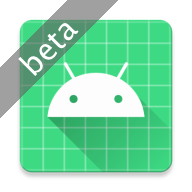
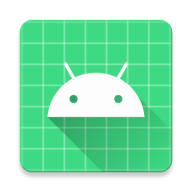
introduce AdaptiveIcon resource

Changed region(s): [[0.0, 0.0, 0.625, 0.625]]

diff --git a/ribbonizer-plugin/src/main/kotlin/com/shogo82148/ribbonizer/plugin/RibbonizerTask.kt b/ribbonizer-plugin/src/main/kotlin/com/shogo82148/ribbonizer/plugin/RibbonizerTask.kt
@@ -1,19 +1,14 @@
 package com.shogo82148.ribbonizer.plugin
 
 import com.android.build.gradle.AppExtension
-import com.android.builder.model.SourceProvider
 import com.android.build.gradle.api.ApplicationVariant
 import com.shogo82148.ribbonizer.FilterBuilder
-import com.shogo82148.ribbonizer.plugin.Resources.adaptiveIconResource
-import com.shogo82148.ribbonizer.resource.ImageAdaptiveIcon
+import com.shogo82148.ribbonizer.resource.AdaptiveIcon
 import com.shogo82148.ribbonizer.resource.ImageIcon
-import com.shogo82148.ribbonizer.resource.Resource
-import com.shogo82148.ribbonizer.resource.VectorAdaptiveIcon
 import org.gradle.api.DefaultTask
 import org.gradle.api.tasks.Internal
 import org.gradle.api.tasks.TaskAction
 import java.io.File
-import java.util.function.Consumer
 import java.util.stream.Stream
 
 open class RibbonizerTask : DefaultTask() {
@@ -26,78 +21,22 @@ open class RibbonizerTask : DefaultTask() {
         val names = HashSet(iconNames)
         names.addAll(launcherIconNames)
         info(names.toString())
+        val ribbonizer = Ribbonizer(name, project, variant, outputDir, filterBuilders)
         names.forEach { name: String ->
-            findResourceFiles(name).forEach {
-                info("process $it")
-                if (it.name.endsWith(".xml")) {
-                    // assume it is an adaptive icon
-                    processAdaptiveIcon(it)
-                } else {
-                    processIcon(it, ImageIcon(it))
+            ribbonizer.findResourceFiles(name).forEach {
+                when (it.extension) {
+                    "xml" -> {
+                        val icon = AdaptiveIcon(ribbonizer, it)
+                        ribbonizer.process(icon)
+                    }
+                    "png" -> {
+                        val icon = ImageIcon(ribbonizer, it)
+                        ribbonizer.process(icon)
+                    }
                 }
             }
         }
         info("task finished in " + (System.currentTimeMillis() - t0) + "ms")
-    }
-
-    private fun findResourceFiles(name: String): List<File> {
-        val files = ArrayList<File>()
-        variant.sourceSets.stream().flatMap { sourceProvider: SourceProvider ->
-            sourceProvider.resDirectories.stream()
-        }.forEach { resDir: File ->
-            if (resDir == outputDir) {
-                return@forEach
-            }
-            project.fileTree(object :
-                LinkedHashMap<String?, Any?>() {
-                init {
-                    put("dir", resDir)
-                    put("include", Resources.resourceFilePattern(name))
-                }
-            }).forEach(Consumer { inputFile: File ->
-                files.add(inputFile)
-            })
-        }
-        return files
-    }
-
-    private fun processAdaptiveIcon(inputFile: File) {
-        try {
-            val icon = adaptiveIconResource(inputFile)
-            if (icon.isEmpty()) {
-                return
-            }
-            findResourceFiles(icon).forEach {
-                if (it.name.endsWith(".xml")) {
-                    // assume it is a vector drawable
-                    processIcon(it, VectorAdaptiveIcon(it))
-                } else {
-                    processIcon(it, ImageAdaptiveIcon(it))
-                }
-            }
-        } catch (e: Exception) {
-            info("Exception: $e")
-        }
-    }
-
-    private fun <T: Resource> processIcon(inputFile: File, icon: T) {
-        val basename = inputFile.name
-        val resType = inputFile.parentFile.name
-        val outputFile = File(outputDir, "$resType/$basename")
-        try {
-            val ribbonizer = Ribbonizer(icon, outputFile)
-            ribbonizer.process(
-                filterBuilders.stream().map { filterBuilder: FilterBuilder ->
-                    filterBuilder.apply(
-                        variant,
-                        inputFile
-                    )
-                }
-            )
-            ribbonizer.save()
-        } catch (e: Exception) {
-            info("Exception: $e")
-        }
     }
 
     private fun info(message: String) {

diff --git a/ribbonizer-plugin/src/main/kotlin/com/shogo82148/ribbonizer/resource/AdaptiveIcon.kt b/ribbonizer-plugin/src/main/kotlin/com/shogo82148/ribbonizer/resource/AdaptiveIcon.kt
@@ -1,0 +1,79 @@
+package com.shogo82148.ribbonizer.resource
+
+import com.shogo82148.ribbonizer.plugin.Ribbonizer
+import org.w3c.dom.Document
+import org.w3c.dom.Node
+import java.io.File
+import javax.xml.parsers.DocumentBuilderFactory
+import javax.xml.transform.TransformerFactory
+import javax.xml.transform.dom.DOMSource
+import javax.xml.transform.stream.StreamResult
+import javax.xml.xpath.XPathConstants
+import javax.xml.xpath.XPathFactory
+
+// AdaptiveIcon is an adaptive icon
+class AdaptiveIcon(ribbonizer: Ribbonizer, file: File) : Resource(ribbonizer, file) {
+    val document: Document
+    val foreground: String
+    val background: String
+    init {
+        val documentBuilder = DocumentBuilderFactory.newInstance().newDocumentBuilder()
+        document = documentBuilder.parse(file)
+
+        val xpath = XPathFactory.newInstance().newXPath()
+        val foregroundNode = xpath.evaluate("/adaptive-icon/foreground", document, XPathConstants.NODE) as Node?
+        foreground = foregroundNode?.attributes?.getNamedItem("android:drawable")?.nodeValue ?: ""
+
+        val backgroundNode = xpath.evaluate("/adaptive-icon/background", document, XPathConstants.NODE) as Node?
+        background = backgroundNode?.attributes?.getNamedItem("android:drawable")?.nodeValue ?: ""
+    }
+
+    override fun apply(filter: Filter) {
+        filter.apply(this)
+    }
+
+    override fun save(file: File) {
+        val tfFactory = TransformerFactory.newInstance()
+        val tf = tfFactory.newTransformer()
+
+        tf.setOutputProperty("indent", "yes")
+        tf.setOutputProperty("encoding", "UTF-8")
+        tf.transform(DOMSource(document), StreamResult(file));
+    }
+
+    fun processForeground() {
+        if (foreground == "") {
+            return
+        }
+        ribbonizer.findResourceFiles(foreground).forEach {
+            when (it.extension) {
+                "xml" -> {
+                    val icon = VectorAdaptiveIcon(ribbonizer, it)
+                    ribbonizer.process(icon)
+                }
+                "png" -> {
+                    val icon = ImageAdaptiveIcon(ribbonizer, it)
+                    ribbonizer.process(icon)
+                }
+            }
+        }
+    }
+
+    fun processBackground() {
+        if (background == "") {
+            return
+        }
+        ribbonizer.findResourceFiles(background).forEach {
+            when (it.extension) {
+                "xml" -> {
+                    val icon = VectorAdaptiveIcon(ribbonizer, it)
+                    ribbonizer.process(icon)
+                }
+                "png" -> {
+                    val icon = ImageAdaptiveIcon(ribbonizer, it)
+                    ribbonizer.process(icon)
+                }
+            }
+        }
+    }
+}

diff --git a/ribbonizer-plugin/src/main/kotlin/com/shogo82148/ribbonizer/plugin/Ribbonizer.kt b/ribbonizer-plugin/src/main/kotlin/com/shogo82148/ribbonizer/plugin/Ribbonizer.kt
@@ -1,23 +1,62 @@
 package com.shogo82148.ribbonizer.plugin
 
+import com.android.build.gradle.api.ApplicationVariant
+import com.android.builder.model.SourceProvider
+import com.shogo82148.ribbonizer.FilterBuilder
 import com.shogo82148.ribbonizer.resource.Resource
+import org.gradle.api.Project
 import java.io.File
 import java.util.function.Consumer
-import java.util.stream.Stream
 
 class Ribbonizer (
-    private var resource: Resource,
-    var outputFile: File
+    private val name: String,
+    private val project: Project,
+    private val variant: ApplicationVariant,
+    private val outputDir: File,
+    private val filterBuilders: List<FilterBuilder>
 ) {
+    fun process(resource: Resource) {
+        try {
+            val file = resource.file
+            info("process $file")
 
-    fun save() {
-        outputFile.parentFile.mkdirs();
-        resource.save(outputFile);
+            val basename = file.name
+            val resType = file.parentFile.name
+            val outputFile = File(outputDir, "$resType/$basename")
+            outputFile.parentFile.mkdirs()
+            filterBuilders.stream().map { filterBuilder: FilterBuilder ->
+                val filter = filterBuilder.apply(variant, file)
+                filter?.accept(resource)
+            }
+            info("saving to $outputFile")
+            resource.save(outputFile)
+        } catch (e: Exception) {
+            info("Exception: $e")
+        }
     }
 
-    fun process(filters: Stream<Consumer<Resource>>) {
-        filters.forEach {
-            it.accept(resource)
+    fun findResourceFiles(name: String): List<File> {
+        val files = ArrayList<File>()
+        variant.sourceSets.stream().flatMap { sourceProvider: SourceProvider ->
+            sourceProvider.resDirectories.stream()
+        }.forEach { resDir: File ->
+            if (resDir == outputDir) {
+                return@forEach
+            }
+            project.fileTree(object :
+                LinkedHashMap<String?, Any?>() {
+                init {
+                    put("dir", resDir)
+                    put("include", Resources.resourceFilePattern(name))
+                }
+            }).forEach(Consumer { inputFile: File ->
+                files.add(inputFile)
+            })
         }
+        return files
+    }
+
+    private fun info(message: String) {
+        project.logger.info("[$name] $message")
     }
 }

diff --git a/ribbonizer-plugin/src/main/kotlin/com/shogo82148/ribbonizer/resource/VectorAdaptiveIcon.kt b/ribbonizer-plugin/src/main/kotlin/com/shogo82148/ribbonizer/resource/VectorAdaptiveIcon.kt
@@ -1,5 +1,6 @@
 package com.shogo82148.ribbonizer.resource
 
+import com.shogo82148.ribbonizer.plugin.Ribbonizer
 import org.w3c.dom.Document
 import java.io.File
 import javax.xml.parsers.DocumentBuilderFactory
@@ -7,7 +8,8 @@ import javax.xml.transform.TransformerFactory
 import javax.xml.transform.dom.DOMSource
 import javax.xml.transform.stream.StreamResult
 
-class VectorAdaptiveIcon(private val file: File) : Resource() {
+// VectorAdaptiveIcon is a raster type layer of an adaptive icon.
+class VectorAdaptiveIcon(ribbonizer: Ribbonizer, file: File) : Resource(ribbonizer, file) {
     val document: Document
     init {
         val documentBuilder = DocumentBuilderFactory.newInstance().newDocumentBuilder()

diff --git a/ribbonizer-plugin/src/main/kotlin/com/shogo82148/ribbonizer/filter/ColorRibbonFilter.kt b/ribbonizer-plugin/src/main/kotlin/com/shogo82148/ribbonizer/filter/ColorRibbonFilter.kt
@@ -58,6 +58,14 @@ class ColorRibbonFilter(
         g.dispose()
     }
 
+    override fun apply(icon: AdaptiveIcon) {
+        if (icon.foreground.startsWith("@mipmap/") || icon.foreground.startsWith("@drawable")) {
+            icon.processForeground()
+        } else if (icon.background.startsWith("@mipmap/") || icon.background.startsWith("@drawable")) {
+            icon.processBackground()
+        }
+    }
+
     override fun apply(icon: ImageAdaptiveIcon) {
         // https://medium.com/google-design/designing-adaptive-icons-515af294c783
         // Adaptive icons are 108dp*108dp in size but are masked to a maximum of 72dp*72dp.

diff --git a/ribbonizer-plugin/src/main/kotlin/com/shogo82148/ribbonizer/filter/GrayScaleFilter.kt b/ribbonizer-plugin/src/main/kotlin/com/shogo82148/ribbonizer/filter/GrayScaleFilter.kt
@@ -20,6 +20,15 @@ class GrayScaleFilter : Consumer<Resource>, Filter {
         }
     }
 
+    override fun apply(icon: AdaptiveIcon) {
+        if (icon.foreground.startsWith("@mipmap/") || icon.foreground.startsWith("@drawable")) {
+            icon.processForeground()
+        }
+        if (icon.background.startsWith("@mipmap/") || icon.background.startsWith("@drawable")) {
+            icon.processBackground()
+        }
+    }
+
     override fun apply(icon: ImageAdaptiveIcon) {
         val image = icon.image
         val width = image.width

diff --git a/ribbonizer-plugin/src/main/kotlin/com/shogo82148/ribbonizer/resource/ImageAdaptiveIcon.kt b/ribbonizer-plugin/src/main/kotlin/com/shogo82148/ribbonizer/resource/ImageAdaptiveIcon.kt
@@ -1,10 +1,12 @@
 package com.shogo82148.ribbonizer.resource
 
+import com.shogo82148.ribbonizer.plugin.Ribbonizer
 import java.awt.image.BufferedImage
 import java.io.File
 import javax.imageio.ImageIO
 
-class ImageAdaptiveIcon(private val file: File) : Resource() {
+// ImageAdaptiveIcon is a raster type layer of an adaptive icon
+class ImageAdaptiveIcon(ribbonizer: Ribbonizer, file: File) : Resource(ribbonizer, file) {
     val image: BufferedImage = ImageIO.read(file)
 
     override fun apply(filter: Filter) {

diff --git a/ribbonizer-plugin/src/main/kotlin/com/shogo82148/ribbonizer/resource/ImageIcon.kt b/ribbonizer-plugin/src/main/kotlin/com/shogo82148/ribbonizer/resource/ImageIcon.kt
@@ -1,10 +1,12 @@
 package com.shogo82148.ribbonizer.resource
 
+import com.shogo82148.ribbonizer.plugin.Ribbonizer
 import java.awt.image.BufferedImage
 import java.io.File
 import javax.imageio.ImageIO
 
-class ImageIcon(private val file: File) : Resource() {
+// ImageIcon is a raster type icon
+class ImageIcon(ribbonizer: Ribbonizer, file: File) : Resource(ribbonizer, file) {
     val image: BufferedImage = ImageIO.read(file)
 
     override fun apply(filter: Filter) {

diff --git a/ribbonizer-plugin/src/main/kotlin/com/shogo82148/ribbonizer/resource/Resource.kt b/ribbonizer-plugin/src/main/kotlin/com/shogo82148/ribbonizer/resource/Resource.kt
@@ -1,8 +1,11 @@
 package com.shogo82148.ribbonizer.resource
 
+import com.shogo82148.ribbonizer.plugin.Ribbonizer
 import java.io.File
 
-abstract class Resource {
+abstract class Resource(
+    val ribbonizer: Ribbonizer, val file: File) {
+
     abstract fun apply(filter: Filter)
     abstract fun save(file: File)
 }

diff --git a/ribbonizer-plugin/src/main/kotlin/com/shogo82148/ribbonizer/resource/Filter.kt b/ribbonizer-plugin/src/main/kotlin/com/shogo82148/ribbonizer/resource/Filter.kt
@@ -1,7 +1,8 @@
 package com.shogo82148.ribbonizer.resource
 
 interface Filter {
-    fun apply(icon: ImageAdaptiveIcon)
+    fun apply(icon: AdaptiveIcon)
     fun apply(icon: ImageIcon)
+    fun apply(icon: ImageAdaptiveIcon)
     fun apply(icon: VectorAdaptiveIcon)
 }
